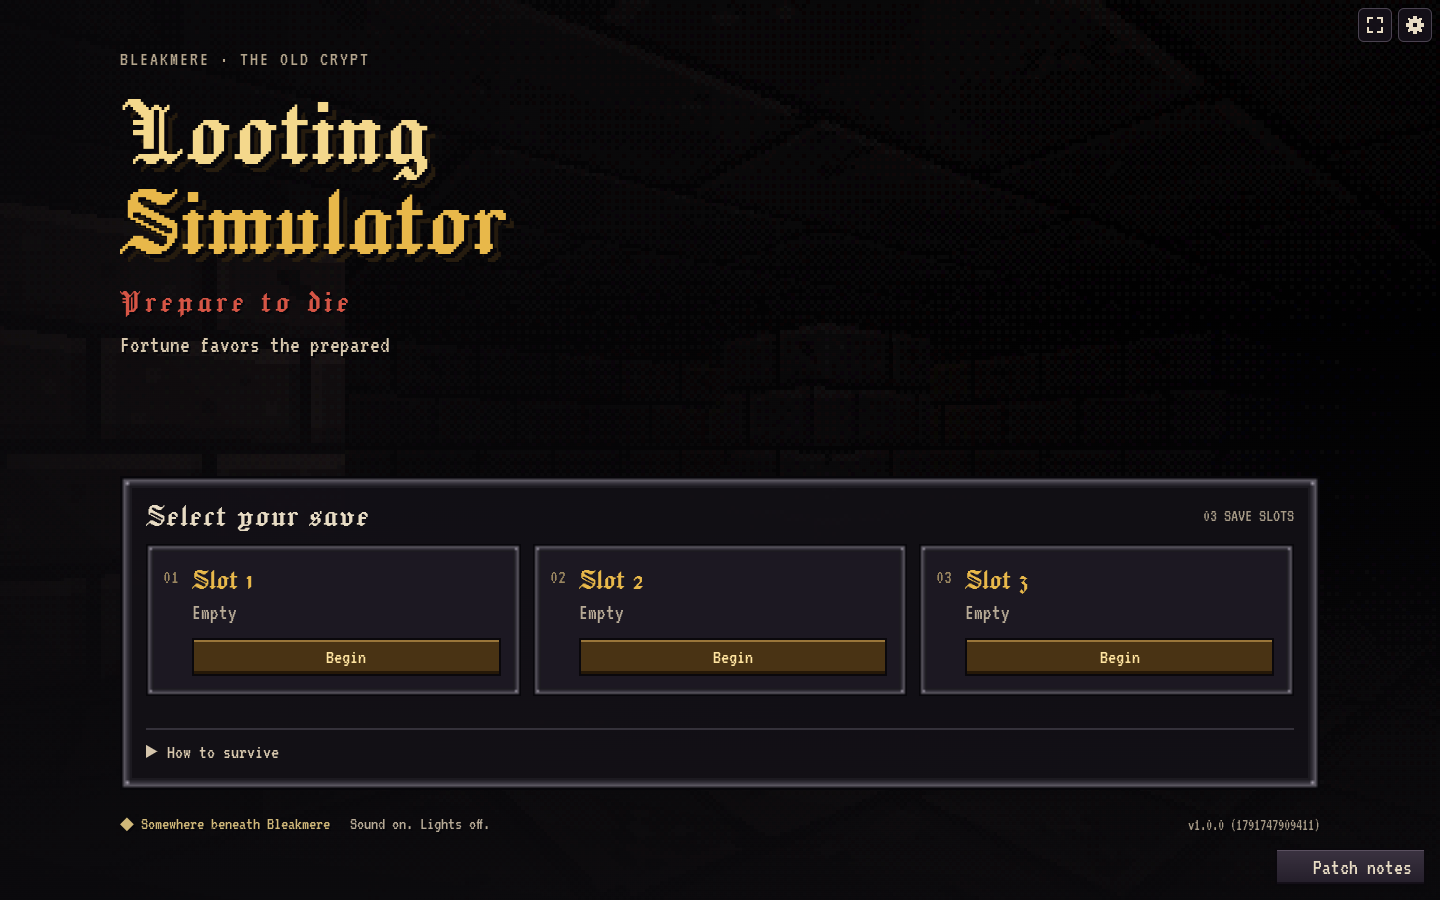
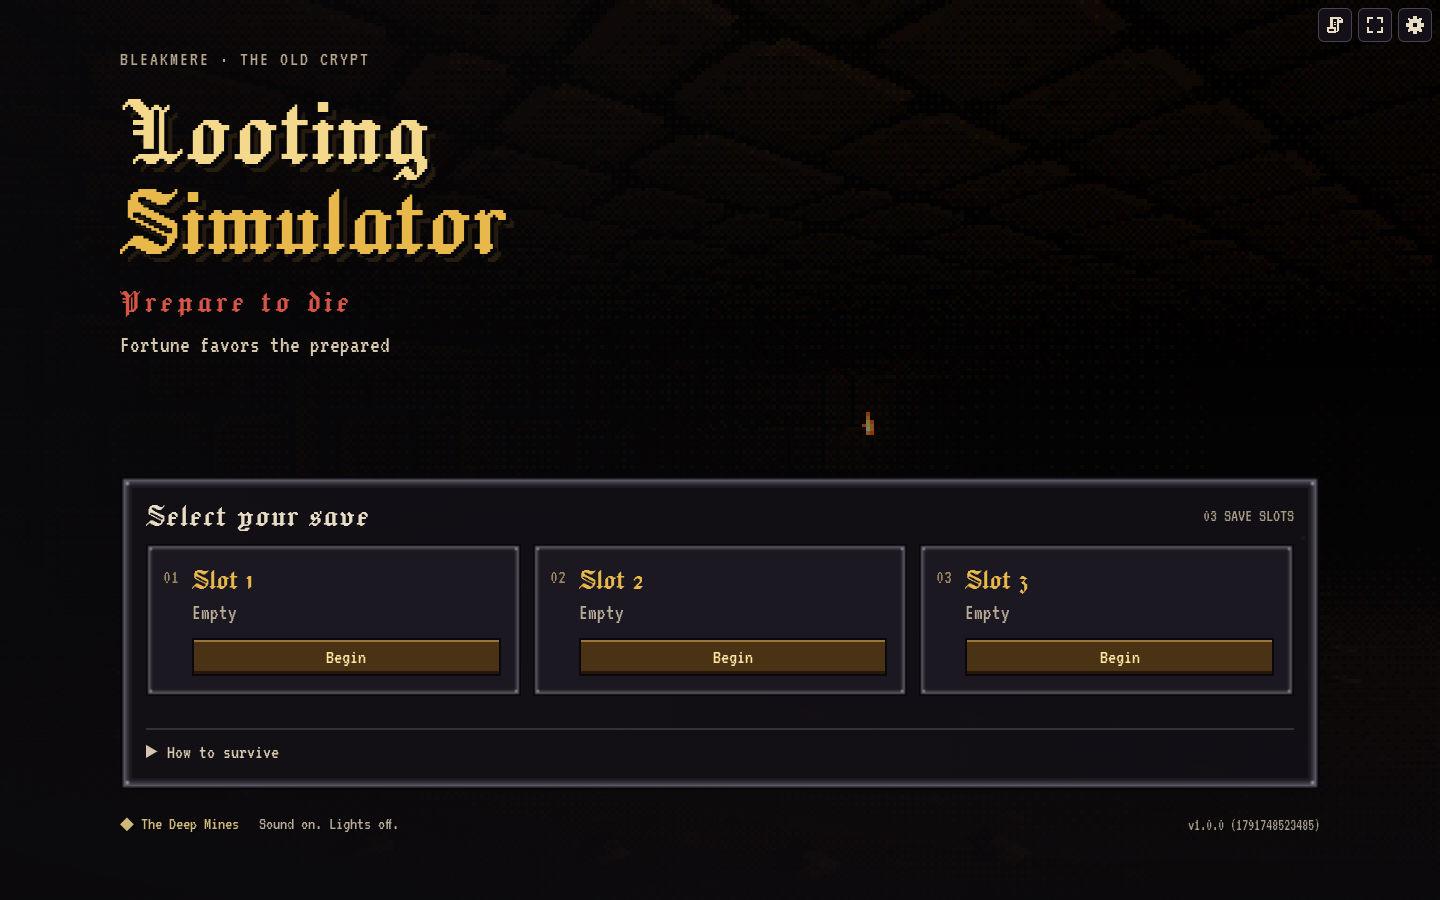
Sample every regular biome and fix the mobile title toolbar

diff --git a/src/data/patches.ts b/src/data/patches.ts
@@ -13,7 +13,7 @@ export interface Patch {
 }
 
 export const PATCHES: Patch[] = [
-  {"n": 91, "hash": "9c596b7d24c3df6d8c98eb411445e4f03f5e71c1", "short": "9c596b7", "also": ["909a59e"], "date": "2026-10-11", "title": "A window into the dark", "summary": "A fresh dungeon greets you every visit, with drifting torchlight behind a rebuilt title and clearer save cards. This is a quiet view into the depths: nothing can hurt you here.", "tags": ["ui", "dungeon"], "details": ["The title shows a newly generated dungeon on every page load, without weapons, combat or changes to your saves.", "The title keeps the game's Jacquard 24 and VT323 lettering, stone pixel frames and beveled buttons. Original fonts load locally, and a bottom save panel leaves the dungeon in view.", "The background reuses the dungeon renderer at up to 30 frames per second, stops drawing in hidden tabs, and stays still with reduced motion enabled."]},
+  {"n": 91, "hash": "9c596b7d24c3df6d8c98eb411445e4f03f5e71c1", "short": "9c596b7", "also": ["909a59e"], "date": "2026-10-11", "title": "A window into the dark", "summary": "A fresh dungeon greets you every visit, with drifting torchlight behind a rebuilt title and clearer save cards. This is a quiet view into the depths: nothing can hurt you here.", "tags": ["ui", "dungeon"], "details": ["The title samples all seven regular dungeon environments on every page load. The Ashen Throne and secret floors stay out of the pool; repeats are allowed. Monsters cannot attack, and the backdrop never changes your saves.", "The title keeps the game's Jacquard 24 and VT323 lettering, stone pixel frames and beveled buttons. Original fonts load locally, and a bottom save panel leaves the dungeon in view.", "The background reuses the dungeon renderer at up to 30 frames per second, stops drawing in hidden tabs, and stays still with reduced motion enabled.", "Patch notes now sits beside fullscreen and settings, with a pixel scroll icon. All three empty saves and the footer fit together on a short landscape phone."]},
   { n: 90, hash: "ca3d28b5092accf7868dfc0743740d9770a6b64c", short: "ca3d28b", date: "2026-10-09", title: "Hand-painted icons take their whole material", summary: "Some of the new hand-painted icons only took part of their material's colour: a Dragon Scale was red in the middle and grey round the edge, and the hides were mostly grey. Every shade of the material now takes its colour, so a dragon scale is red all over and leather is brown, in your pack, at the forge and in your Shade's hands. Outlines and glints stay as painted.", tags: ["art"], details: ["No save change."] },
   { n: 89, hash: "27fbf01f7d82d0b87247b89b0b981a1664e2d66a", short: "27fbf01", date: "2026-10-09", title: "Every icon, painted by hand", summary: "Every item icon is repainted by hand by an artist: weapons, shields, armour, rings and amulets, materials, potions, scrolls, food, sigils, keys and gold. Same size and shape, so nothing moves in your pack, just sharper and with more detail. Gear still takes the colour of what it is made from, and your Shade now holds the same new icon of your weapon and shield that your pack shows.", tags: ["art"], also: ["c2038a7"], details: ["No save change."] },
   { n: 88, hash: "dd52f35052b47d698accd19fcfe0ddf51384f5bf", short: "dd52f35", date: "2026-10-09", title: "Normal is gentle now", summary: "Normal used to hit softer and nothing else. Now it also gives you time: monsters wind up about a third slower, never feint, stop a flurry after two blows, and no more than two swing at you at once. The parry window is wider, your guard absorbs more for less stamina, you get an extra flask charge, and you slowly mend to half health while nothing is hunting you. Monsters hit a third less and fall faster, gear never wears or breaks, so there is nothing to repair. A mimic can bite but never kill, and the Ashen King faces you alone, without his Hollow Knights, never speeds up or raises a shield as he comes apart, and lets you step back out of his fog to catch your breath. And dying on Normal keeps your pack: you lose only a tenth of the gold you carried, which your Shade holds for you. Hard and Hardcore are unchanged.", tags: ["combat", "dungeon", "town"], also: ["55e3e88", "013048f", "2a4b965", "b402711", "06c91da"], details: ["Elites and lieutenants turn up about half as often on Normal, mimics bite half as hard and leave you on 1 health at worst, and traps are fewer and sting half as much.", "The settings and new-save card describe Normal in full.", "Switching a save to Normal mends every piece of gear it owns. The forge drops its Repairs bench there, the Sigil of Temper stops turning up, and the Unbroken oath is not offered.", "No save change: a save already on Normal plays the new rules from its next delve."] },

diff --git a/src/style.css b/src/style.css
@@ -474,11 +474,12 @@ table.market .market-owned { color: var(--gold); font-weight: 700; }
   text-shadow: 0 2px 0 #000, 0 0 18px #d0443a66;
   margin-top: 2px;
 }
-/* Patch notes live in the corner of the title screen, out of the way. */
+/* Title toolbar: patch notes sits left of fullscreen and the gear. */
 .patch-corner {
-  position: absolute;
-  right: max(14px, env(safe-area-inset-right));
-  bottom: max(14px, env(safe-area-inset-bottom));
+  position: fixed;
+  top: max(8px, env(safe-area-inset-top));
+  right: calc(max(8px, env(safe-area-inset-right)) + var(--gear-slot) + var(--fs-slot));
+  z-index: 50;
 }
 /* The corner buttons: fullscreen and the settings gear. One box for both,
    so they line up edge to edge and read as a pair. */
@@ -870,7 +871,6 @@ body.touch .modal .btn.small { padding: 4px 12px; font-size: 19px; }
 }
 
 /* --- Patch notes --------------------------------------------------------- */
-.patch-open .patch-scroll { margin-right: 6px; }
 .patch-wrap { z-index: 80; }
 .patch-modal { min-width: min(94vw, 640px); display: flex; flex-direction: column; gap: 8px; }
 .patch-top { position: sticky; top: 0; }
@@ -1057,4 +1057,23 @@ body.touch .modal .btn.small { padding: 4px 12px; font-size: 19px; }
   .title-screen .slot-card { flex: none; }
   .title-footer { gap: 10px; }
   .title-build { margin-left: 0; }
+}
+/* A short landscape phone can show all three empty saves in one viewport.
+   Editors and existing saves still grow normally and remain scrollable. */
+@media (max-height: 480px) and (min-width: 561px) {
+  .title-screen { padding-top: 44px; padding-bottom: max(8px, env(safe-area-inset-bottom)); }
+  .title-layout { gap: 4px 24px; }
+  .title-screen .title-panel { padding: 4px 8px; border-width: 8px; border-image-width: 8px; }
+  .title-section-head { margin-bottom: 6px; }
+  .title-section-head h2 { font-size: 26px; }
+  .title-screen .slots { gap: 4px; }
+  .title-screen .slot-card.compact-empty { border-width: 4px; border-image-width: 4px; display: grid; grid-template-columns: minmax(0, 1fr) auto; min-height: 54px; padding: 2px 8px 2px 30px; gap: 0 10px; }
+  .title-screen .compact-empty .slot-name { grid-column: 1; font-size: 24px; }
+  .title-screen .compact-empty > .dim { grid-column: 1; font-size: 18px; }
+  .title-screen .compact-empty > .grow { display: none; }
+  .title-screen .compact-empty > .btn { grid-column: 2; grid-row: 1 / span 2; align-self: center; width: auto; min-width: 76px; min-height: 32px; font-size: 20px; padding: 4px 10px; }
+  .title-screen .compact-empty::before { top: 8px; font-size: 18px; }
+  .title-controls { margin-top: 6px; padding-top: 6px; font-size: 18px; }
+  .title-footer { font-size: 14px; gap: 10px; }
+  .title-build { font-size: 14px; }
 }

diff --git a/src/render/title-dungeon.ts b/src/render/title-dungeon.ts
@@ -3,13 +3,21 @@ import { Dir, DIRS, DX, DY } from '../core/dir';
 import { newGame } from '../state/game-state';
 import { startRun } from '../systems/run';
 import { World } from '../world/world';
-import { blocksMove, blocksSight, enemyAt, inBounds, WALL } from '../systems/dungeon';
+import { BIOMES, FINAL_DEPTH } from '../data/biomes';
+import { blocksMove, blocksSight, enemyAt, inBounds, generateFloor, WALL } from '../systems/dungeon';
 
 /** A private diorama. Never tick this World: creatures remain unaware of the viewer. */
 export function createTitleDungeon(seed = randomSeed()): World {
   const state = newGame(createRng(seed));
   const run = startRun(state, seed);
-  const floor = run.floors[0]!;
+  // Sample regular environments uniformly, independently of a live run's
+  // depth or roads. Secret quirks are never applied to this generated floor.
+  const biome = createRng(seed).fork('title-biome').pick(BIOMES.filter(b => b.depths.some(d => d < FINAL_DEPTH)));
+  const depth = biome.depths.find(d => d < FINAL_DEPTH)!;
+  const floor = generateFloor(seed, depth, 'hard', false, biome.id);
+  run.depth = depth;
+  run.floors = Array.from({ length: depth }, () => null);
+  run.floors[depth - 1] = floor;
   // A roomy chamber, viewed diagonally from its corner, gives the backdrop
   // depth and a visible wall of torchlight rather than a close-up of stairs.
   const rooms = floor.rooms.filter(r => r.role !== 'secret' && r.role !== 'vault');

diff --git a/src/ui/patch-notes.ts b/src/ui/patch-notes.ts
@@ -1,18 +1,18 @@
 import { PATCHES } from '../data/patches';
 import { btn, closeOverlays, h, mountOverlay } from './dom';
 
-/** Scroll icon button for the home (title) page. Opens the patch-notes overlay. */
+/** Pixel scroll, matching the 16px gear/fullscreen icons without an emoji-font dependency. */
+const SCROLL_ICON = '<svg viewBox="0 0 16 16" shape-rendering="crispEdges" aria-hidden="true"><path fill="currentColor" fill-rule="evenodd" d="M4 1h9v1h1v1h1v3h-3v7h-1v1H9v1H2v-1H1v-4h3V1zm2 2v7h3v3h1V3H6zm6 0v1h1V3h-1zM3 12v1h4v-1H3z"/><path fill="currentColor" d="M7 5h2v1H7zM7 7h2v1H7z"/></svg>';
+
+/** Scroll icon button for the title's corner toolbar. */
 export function patchNotesButton(): HTMLElement {
-  return h(
-    'button',
-    {
-      class: 'btn patch-open',
-      title: 'Patch notes — every change, newest first',
-      onclick: () => openPatchNotes(),
-    },
-    h('span', { class: 'patch-scroll', text: '📜' }),
-    ' Patch notes',
-  );
+  return h('button', {
+    class: 'corner-btn patch-open',
+    title: 'Patch notes — every change, newest first',
+    attrs: { 'aria-label': 'Patch notes' },
+    html: SCROLL_ICON,
+    onclick: () => openPatchNotes(),
+  });
 }
 
 /**

diff --git a/src/ui/screens.ts b/src/ui/screens.ts
@@ -11,7 +11,7 @@ const titleTaglines = [
 ];
 const titleTagline = titleTaglines[Math.floor(Math.random() * titleTaglines.length)];
 
-export function titleScreen(slots: HTMLElement, build = '', account?: HTMLElement, dev?: HTMLElement | null, onSettings?: () => void): HTMLElement {
+export function titleScreen(slots: HTMLElement, build = '', account?: HTMLElement, dev?: HTMLElement | null, onSettings?: () => void, scene = 'Somewhere beneath Bleakmere'): HTMLElement {
   const controls = h('details', { class: 'title-controls' },
     h('summary', { text: 'How to survive' }),
     h('div', { class: 'help' },
@@ -36,7 +36,7 @@ export function titleScreen(slots: HTMLElement, build = '', account?: HTMLElemen
         dev ?? null,
       ),
       h('footer', { class: 'title-footer' },
-        h('span', { class: 'title-scene-label', text: '◆  Somewhere beneath Bleakmere' }),
+        h('span', { class: 'title-scene-label', text: `◆  ${scene}` }),
         h('span', { text: 'Sound on. Lights off.' }),
         build ? h('span', { class: 'title-build', text: `v${build.replace(/^v/, '')}` }) : null,
       ),

diff --git a/src/__tests__/title-dungeon.test.ts b/src/__tests__/title-dungeon.test.ts
@@ -1,5 +1,6 @@
 import { describe, expect, it } from 'vitest';
 import { createTitleDungeon } from '../render/title-dungeon';
+import { BOSS_ID } from '../data/enemies';
 import { blocksMove, inBounds } from '../systems/dungeon';
 
 describe('title dungeon', () => {
@@ -21,4 +22,17 @@ describe('title dungeon', () => {
     expect(a.run.stats.time).toBe(0);
     expect(a.floor.enemies.every(e => e.alert === 0)).toBe(true);
   });
+  it('samples every regular biome while excluding boss and secret floors', () => {
+    const seen = new Set<string>();
+    for (let seed = 1; seed <= 100; seed++) {
+      const world = createTitleDungeon(seed);
+      seen.add(world.floor.biome);
+      expect(world.floor.depth).toBeLessThan(6);
+      expect(world.floor.quirk).toBeUndefined();
+      expect(world.floor.rooms.some(r => r.role === 'throne')).toBe(false);
+      expect(world.floor.enemies.some(e => e.def === BOSS_ID)).toBe(false);
+    }
+    expect([...seen].sort()).toEqual(['burrows', 'catacombs', 'crypt', 'emberworks', 'frostvault', 'mines', 'sporegrove']);
+  });
+
 });

diff --git a/src/main.ts b/src/main.ts
@@ -761,10 +761,11 @@ async function openArtSheet(): Promise<void> {
 function enterTitle(): void {
   closeSettings();
   show('title');
+  titleDungeon ??= createTitleDungeon();
   screen.replaceChildren(titleScreen(slotPicker(slotViews(), enterSlot, {
     onRename: (n, name) => void renameSlot(n, name),
     onDelete: (n) => void deleteSlot(n),
-  }), `v${APP_VERSION} (${BUILD_ID})`, account.el, devTitleTools(), () => openTitleSettings()));
+  }), `v${APP_VERSION} (${BUILD_ID})`, account.el, devTitleTools(), () => openTitleSettings(), biomeForFloor(titleDungeon.floor).name));
   askAboutSaves();
 }
 

diff --git a/src/ui/slots.ts b/src/ui/slots.ts
@@ -44,6 +44,7 @@ function card(v: SlotView, onPlay: OnPlay, actions: SlotActions): HTMLElement {
   const el = h('div', { class: 'slot-card frame' });
   let mode: CardMode = 'view';
   const render = (): void => {
+    el.classList.toggle('compact-empty', mode === 'view' && !v.local && !v.cloud && !v.cloudUnreadable);
     el.replaceChildren();
     if (mode === 'rename') for (const k of renameEls()) el.append(k);
     else if (mode === 'difficulty') for (const k of difficultyEls()) el.append(k);
